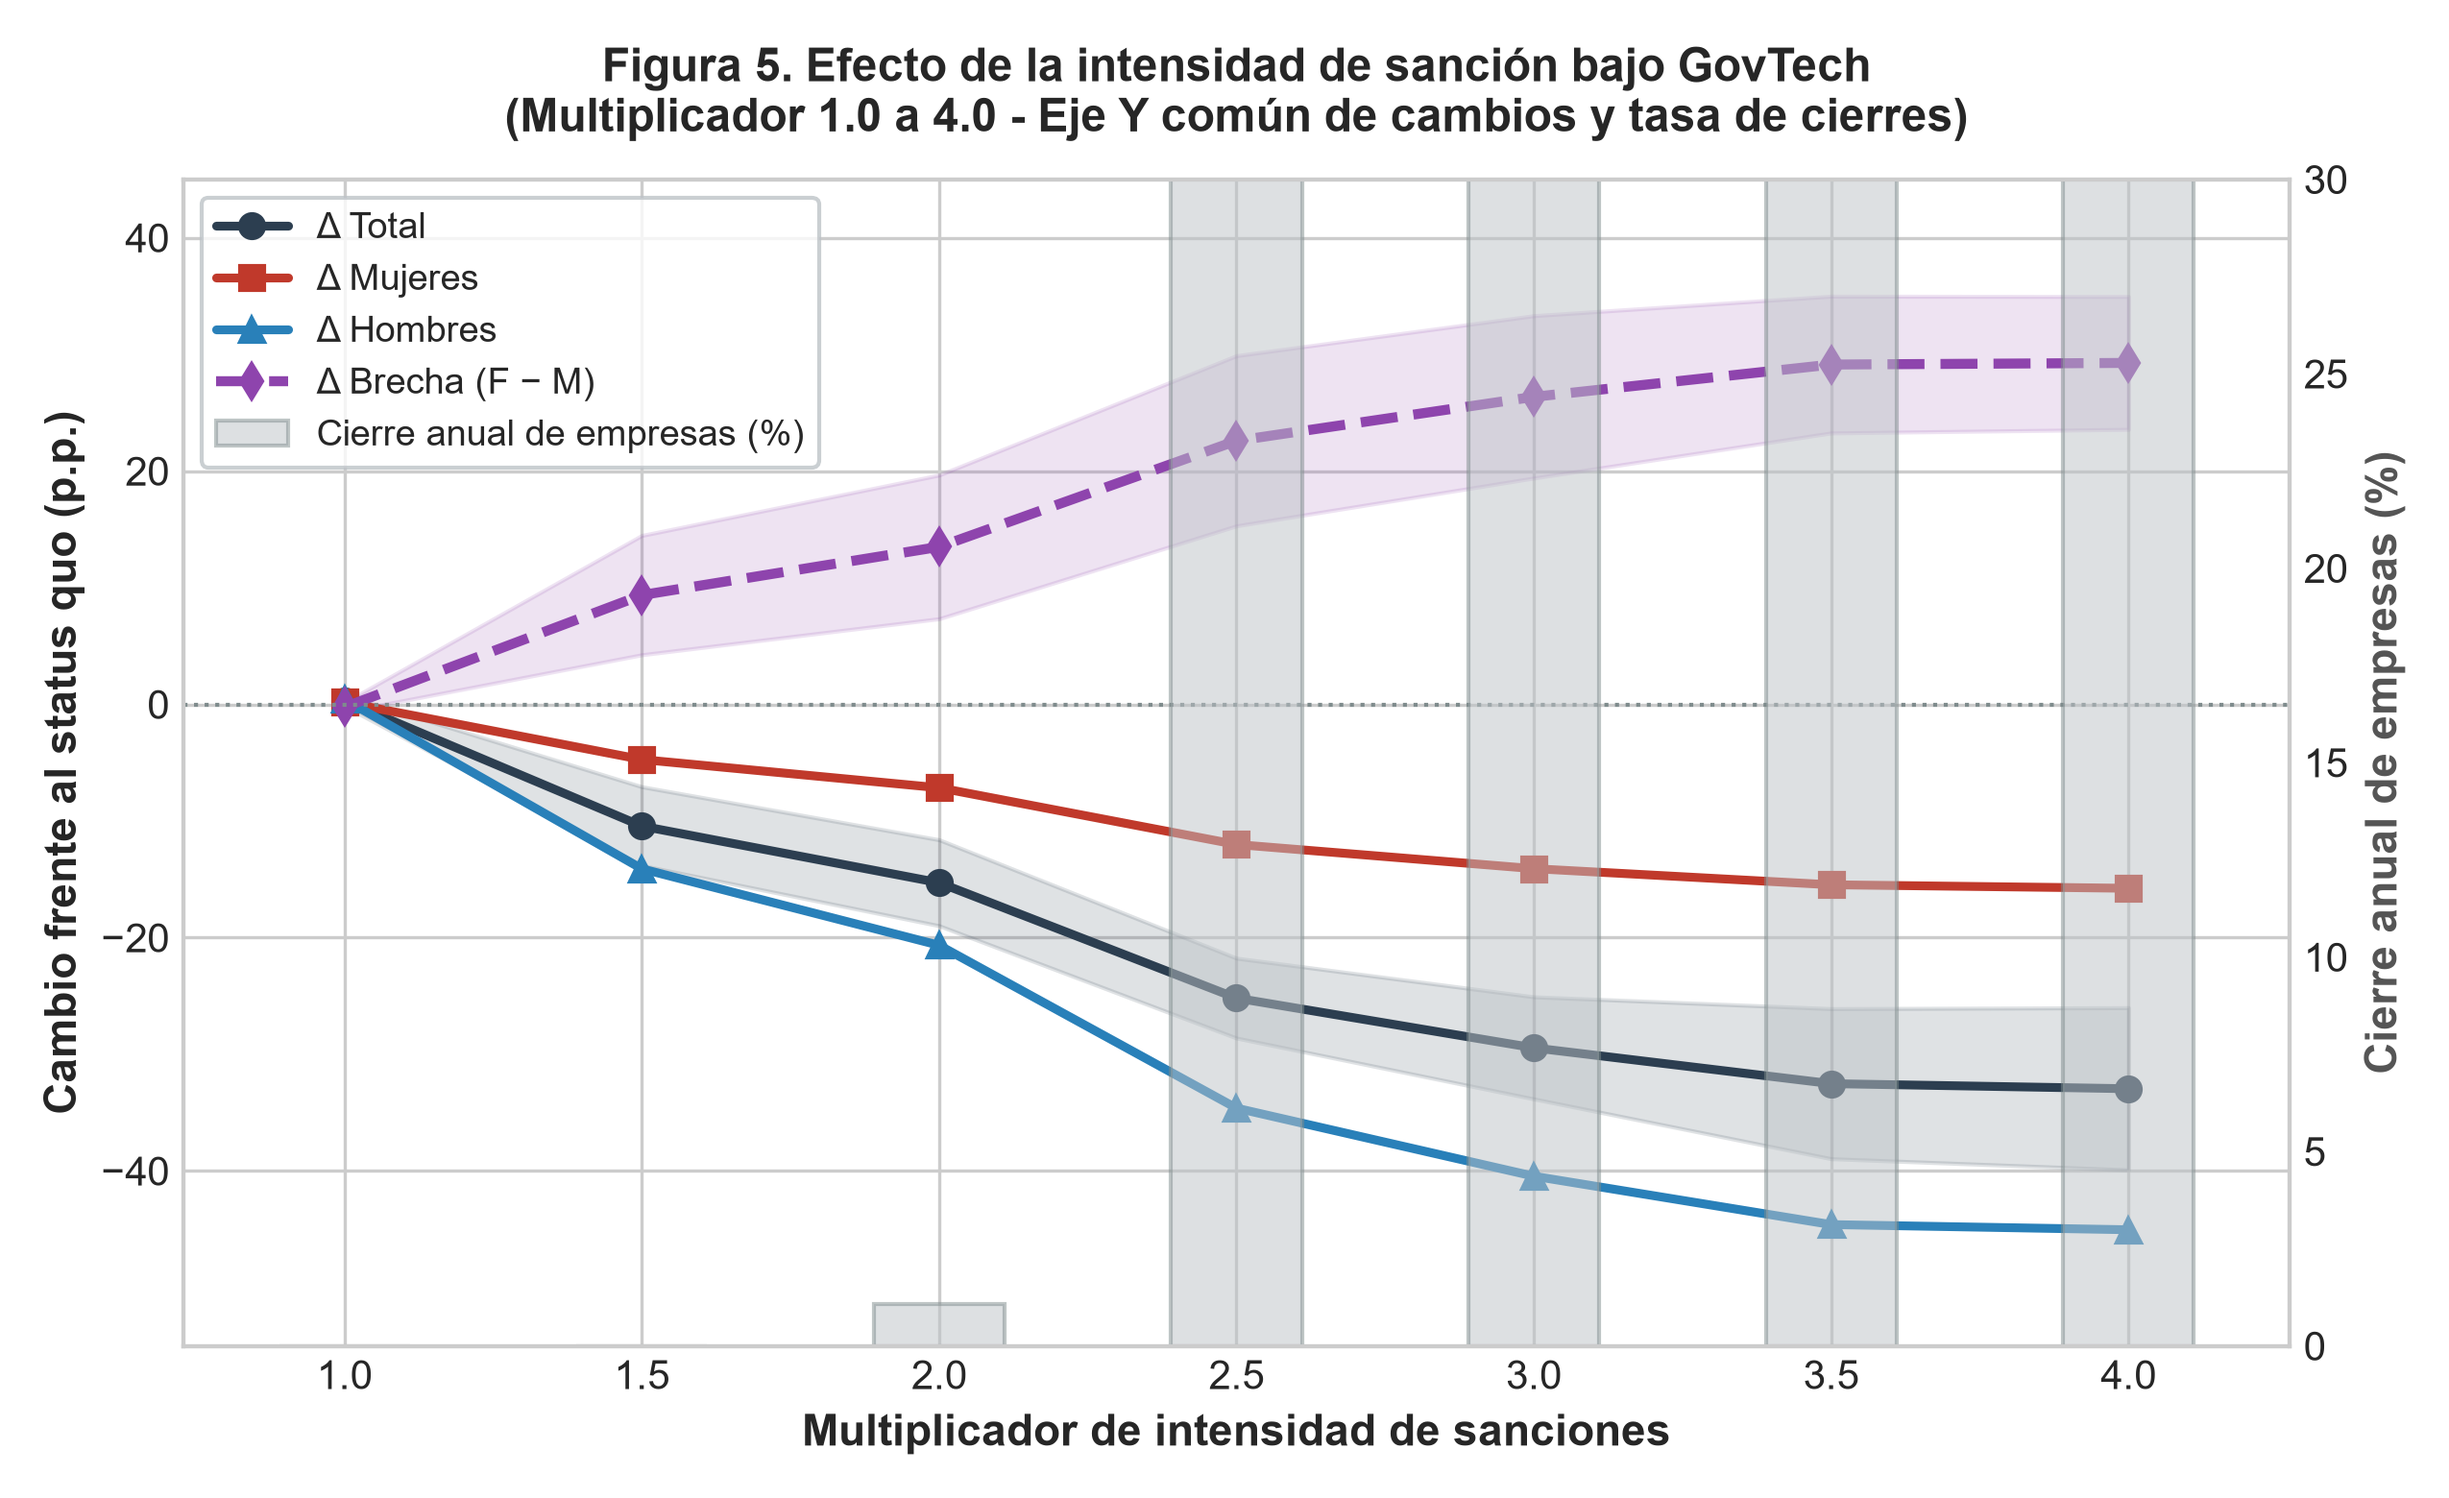
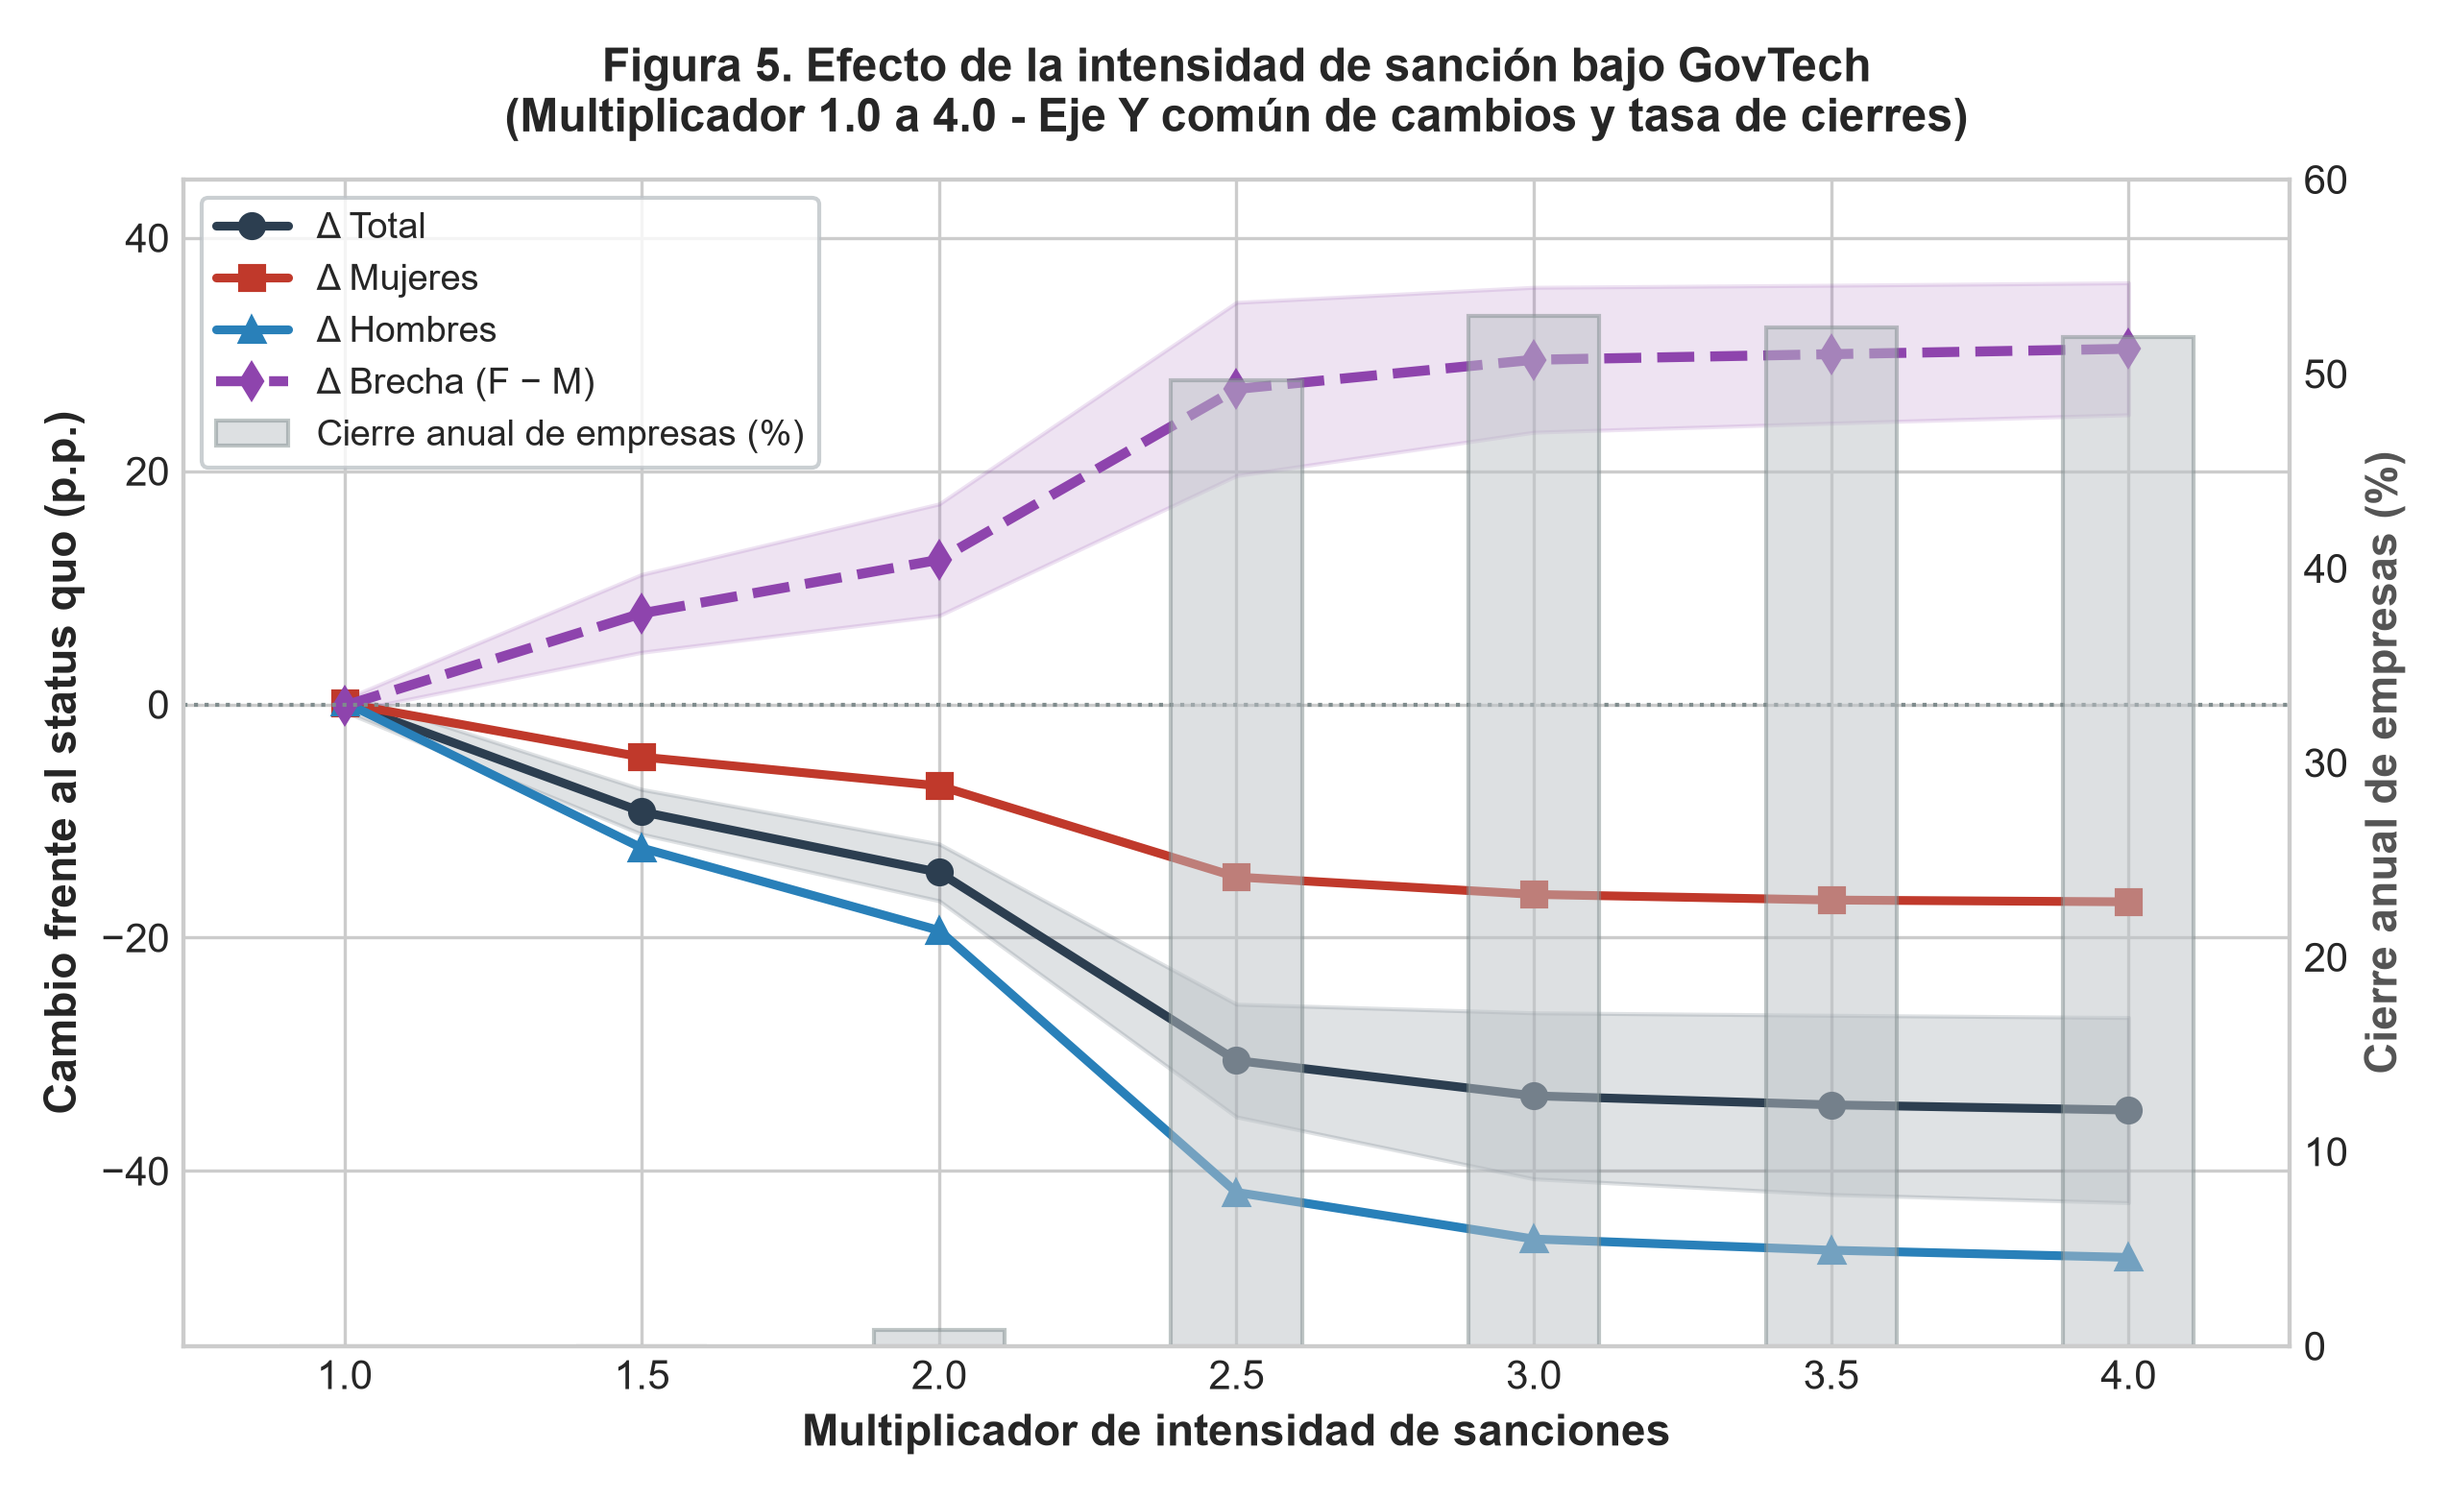
feat(viz,cost): ajustar eje Fig 5 a 60%, linea discontinua Escenario A en Fig 6 y memoria psutil en Tabla 10

diff --git a/itdt/experiments.py b/itdt/experiments.py
@@ -412,7 +412,7 @@ def run_sanctions_sweep_experiment(
     # Eje derecho: Cierres anuales (%) en barras con ancho 0.25
     ax2.bar(x, df_sweep["exit_rate_mean"], width=0.22, color="#bdc3c7", alpha=0.5, edgecolor="#7f8c8d", label="Cierre anual de empresas (%)")
     ax2.set_ylabel("Cierre anual de empresas (%)", fontsize=11, fontweight="bold", color="#555555")
-    ax2.set_ylim(0.0, 30.0)
+    ax2.set_ylim(0.0, 60.0)
     ax2.grid(False)
 
     # Eje izquierdo: Cambios frente al status quo en p.p. (líneas con bandas)
@@ -737,9 +737,26 @@ def run_sensitivity_and_robustness(
 # 6. BENCHMARKING DE COSTO COMPUTACIONAL (TABLA 10)
 # ==============================================================================
 
+def get_process_memory_mb() -> float:
+    """Mide la memoria residente real (RSS) del proceso en MB usando psutil o resource."""
+    try:
+        import psutil
+        process = psutil.Process(os.getpid())
+        return float(process.memory_info().rss / (1024 * 1024))
+    except Exception:
+        pass
+    try:
+        import resource
+        usage = resource.getrusage(resource.RUSAGE_SELF).ru_maxrss
+        return float(usage / 1024.0)
+    except Exception:
+        pass
+    return 0.0
+
+
 def benchmark_computational_cost(output_dir: str = "outputs") -> pd.DataFrame:
     """
-    Mide el tiempo de ejecución por réplica (216 meses) y la memoria pico para:
+    Mide el tiempo de ejecución por réplica (216 meses) y la memoria real del proceso para:
     N_W in {3000, 6000, 12000, 24000} y N_F in {300, 600, 1200, 2400}.
     """
     print("\n--- Ejecutando benchmarking de costo computacional (Tabla 10)... ---")
@@ -754,7 +771,7 @@ def benchmark_computational_cost(output_dir: str = "outputs") -> pd.DataFrame:
 
     for nw, nf, label in scales:
         times = []
-        tracemalloc.start()
+        peak_mb = get_process_memory_mb()
 
         for rep in range(3):
             t_start = time.perf_counter()
@@ -768,11 +785,11 @@ def benchmark_computational_cost(output_dir: str = "outputs") -> pd.DataFrame:
                 policy_months=120,
             )
             model.run()
-            times.append(time.perf_counter() - t_start)
-
-        _, peak_mem = tracemalloc.get_traced_memory()
-        tracemalloc.stop()
-        peak_mb = peak_mem / (1024 * 1024)
+            elapsed = time.perf_counter() - t_start
+            times.append(elapsed)
+            current_mem = get_process_memory_mb()
+            if current_mem > peak_mb:
+                peak_mb = current_mem
 
         mean_t = float(np.mean(times))
         std_t = float(np.std(times, ddof=1))
@@ -783,14 +800,15 @@ def benchmark_computational_cost(output_dir: str = "outputs") -> pd.DataFrame:
             "Tiempo por réplica (s), media (DE)": f"{mean_t:.3f} ({std_t:.3f})",
             "Memoria máxima del proceso (MB)": f"{peak_mb:.1f}",
         })
-        print(f"  N_W = {label}: {mean_t:.3f} s (DE = {std_t:.3f}), Memoria pico: {peak_mb:.1f} MB")
+        print(f"  N_W = {label}: {mean_t:.3f} s (DE = {std_t:.3f}), Memoria real del proceso: {peak_mb:.1f} MB")
 
     df_t10 = pd.DataFrame(table10_rows)
     df_t10.to_csv(os.path.join(output_dir, "table10_cost.csv"), index=False, encoding="utf-8")
     with open(os.path.join(output_dir, "table10_cost.md"), "w", encoding="utf-8") as f:
         f.write("# Tabla 10: Costo computacional por réplica (216 meses: 96 de calentamiento + 120 de escenario)\n\n")
         f.write(df_t10.to_markdown(index=False))
-        f.write("\n\n*Nota.* 3 repeticiones por tamaño. El tiempo crece de forma aproximadamente lineal con NW.\n")
+        f.write("\n\n*Nota.* 3 repeticiones por tamaño. El tiempo crece de forma aproximadamente lineal con NW. "
+                "Memoria real del proceso medida con psutil/resource (RSS).\n")
 
     print(f"Tabla 10 generada en {output_dir}/table10_cost.*")
     return df_t10
@@ -1010,7 +1028,8 @@ def generate_figure_6(
             ci_high = np.percentile(all_series, 97.5, axis=0)
 
             c_color = scenario_colors[sc]
-            ax.plot(months, mean_traj, color=c_color, linewidth=2.0, label=scenario_labels[sc])
+            line_style = "--" if sc == "A" else "-"
+            ax.plot(months, mean_traj, color=c_color, linewidth=2.0, linestyle=line_style, label=scenario_labels[sc])
             ax.fill_between(months, ci_low, ci_high, color=c_color, alpha=0.12)
 
         ax.set_title(f"Trayectoria de Informalidad - {sex_title}", fontsize=12, fontweight="bold", pad=10)

diff --git a/outputs/table10_cost.md b/outputs/table10_cost.md
@@ -2,9 +2,9 @@
 
 | NW (trabajadores)          | NF (empresas)   | Tiempo por réplica (s), media (DE)   |   Memoria máxima del proceso (MB) |
 |:---------------------------|:----------------|:-------------------------------------|----------------------------------:|
-| 3 000                      | 300             | 0.595 (0.154)                        |                               1.1 |
-| 6 000 (configuración base) | 600             | 0.754 (0.052)                        |                               1.9 |
-| 12 000                     | 1 200           | 0.976 (0.027)                        |                               3.4 |
-| 24 000                     | 2 400           | 1.095 (0.076)                        |                               6.4 |
+| 3 000                      | 300             | 0.227 (0.100)                        |                             171.3 |
+| 6 000 (configuración base) | 600             | 0.237 (0.055)                        |                             171.3 |
+| 12 000                     | 1 200           | 0.400 (0.064)                        |                             173.1 |
+| 24 000                     | 2 400           | 0.698 (0.059)                        |                             175   |
 
-*Nota.* 3 repeticiones por tamaño. El tiempo crece de forma aproximadamente lineal con NW.
+*Nota.* 3 repeticiones por tamaño. El tiempo crece de forma aproximadamente lineal con NW. Memoria real del proceso medida con psutil/resource (RSS).

diff --git a/outputs/table7_contrasts.md b/outputs/table7_contrasts.md
@@ -6,9 +6,9 @@
 | B2: mujeres | Nigeria   | -13.68 (0.94)           |   -91.8 | -14.51 | < 0.001              | < 0.001            |
 | B2: mujeres | India     | -24.87 (1.80)           |   -87.3 | -13.8  | < 0.001              | < 0.001            |
 | B2: mujeres | Bangladés | -5.52 (0.78)            |   -44.7 |  -7.07 | < 0.001              | < 0.001            |
-| B2: brecha  | Kenia     | +24.95 (1.82)           |    86.8 |  13.73 | < 0.001              | < 0.001            |
-| B2: brecha  | Nigeria   | +39.40 (1.83)           |   136.5 |  21.58 | < 0.001              | < 0.001            |
-| B2: brecha  | India     | +24.86 (2.21)           |    71.3 |  11.27 | < 0.001              | < 0.001            |
+| B2: brecha  | Kenia     | +24.95 (1.82)           |    86.8 |  13.72 | < 0.001              | < 0.001            |
+| B2: brecha  | Nigeria   | +39.40 (1.83)           |   136.5 |  21.59 | < 0.001              | < 0.001            |
+| B2: brecha  | India     | +24.87 (2.20)           |    71.3 |  11.28 | < 0.001              | < 0.001            |
 | B2: brecha  | Bangladés | +29.32 (3.01)           |    61.5 |   9.73 | < 0.001              | < 0.001            |
 | D: total    | Kenia     | -29.31 (2.44)           |   -75.9 | -11.99 | < 0.001              | < 0.001            |
 | D: total    | Nigeria   | -40.17 (3.05)           |   -83.4 | -13.18 | < 0.001              | < 0.001            |

diff --git a/outputs/table6_changes.md b/outputs/table6_changes.md
@@ -2,8 +2,8 @@
 
 | Escenario   | Total (p.p.)            | Mujeres (p.p.)          | Hombres (p.p.)          | Brecha (p.p.)         | Cierres (p.p./año)    | Recaudación (%)       |
 |:------------|:------------------------|:------------------------|:------------------------|:----------------------|:----------------------|:----------------------|
-| B1          | +0.03 [-0.09, 0.15]     | +0.02 [-0.05, 0.09]     | +0.05 [-0.11, 0.22]     | -0.03 [-0.14, 0.07]   | -0.03 [-0.05, -0.02]  | -0.3 [-1.9, 0.9]      |
-| B2          | -33.69 [-39.99, -27.12] | -16.37 [-23.28, -9.45]  | -46.01 [-51.62, -38.61] | +29.63 [24.86, 35.99] | +52.73 [40.27, 68.18] | +295.5 [161.6, 468.7] |
+| B1          | +0.03 [-0.09, 0.15]     | +0.02 [-0.05, 0.09]     | +0.05 [-0.11, 0.22]     | -0.03 [-0.13, 0.07]   | -0.03 [-0.05, -0.02]  | -0.3 [-1.9, 0.9]      |
+| B2          | -33.69 [-39.99, -27.12] | -16.37 [-23.28, -9.45]  | -46.01 [-51.62, -38.61] | +29.64 [24.86, 35.99] | +52.73 [40.27, 68.18] | +295.5 [161.6, 468.7] |
 | C           | -0.83 [-1.33, -0.31]    | -5.59 [-9.92, -2.74]    | +2.20 [1.17, 3.44]      | -7.79 [-13.29, -4.15] | -0.02 [-0.04, 0.00]   | +9.9 [7.4, 12.2]      |
 | D           | -32.86 [-38.50, -27.40] | -37.08 [-40.19, -33.85] | -30.24 [-37.21, -23.28] | -6.84 [-12.34, -2.97] | +20.74 [12.43, 31.05] | +254.1 [126.5, 427.1] |
 

diff --git a/outputs/table5_levels.md b/outputs/table5_levels.md
@@ -2,7 +2,7 @@
 
 | Escenario             | Informalidad total (%)   | Mujeres (%)   | Hombres (%)   |   Brecha F − M (p.p.) | Cierre anual de empresas (%)   |
 |:----------------------|:-------------------------|:--------------|:--------------|----------------------:|:-------------------------------|
-| A: status quo         | 88.76 (2.25)             | 93.93 (1.23)  | 85.47 (2.98)  |                  8.46 | 0.03 (0.08)                    |
+| A: status quo         | 88.76 (2.25)             | 93.93 (1.23)  | 85.47 (2.98)  |                  8.45 | 0.03 (0.08)                    |
 | B1: GovTech moderado  | 88.79 (2.21)             | 93.95 (1.20)  | 85.52 (2.95)  |                  8.42 | 0.00 (0.00)                    |
 | B2: GovTech intensivo | 55.07 (1.44)             | 77.56 (0.97)  | 39.47 (1.90)  |                 38.09 | 52.77 (4.97)                   |
 | C: red de cuidados    | 87.93 (2.15)             | 88.34 (2.12)  | 87.68 (2.22)  |                  0.66 | 0.01 (0.05)                    |
